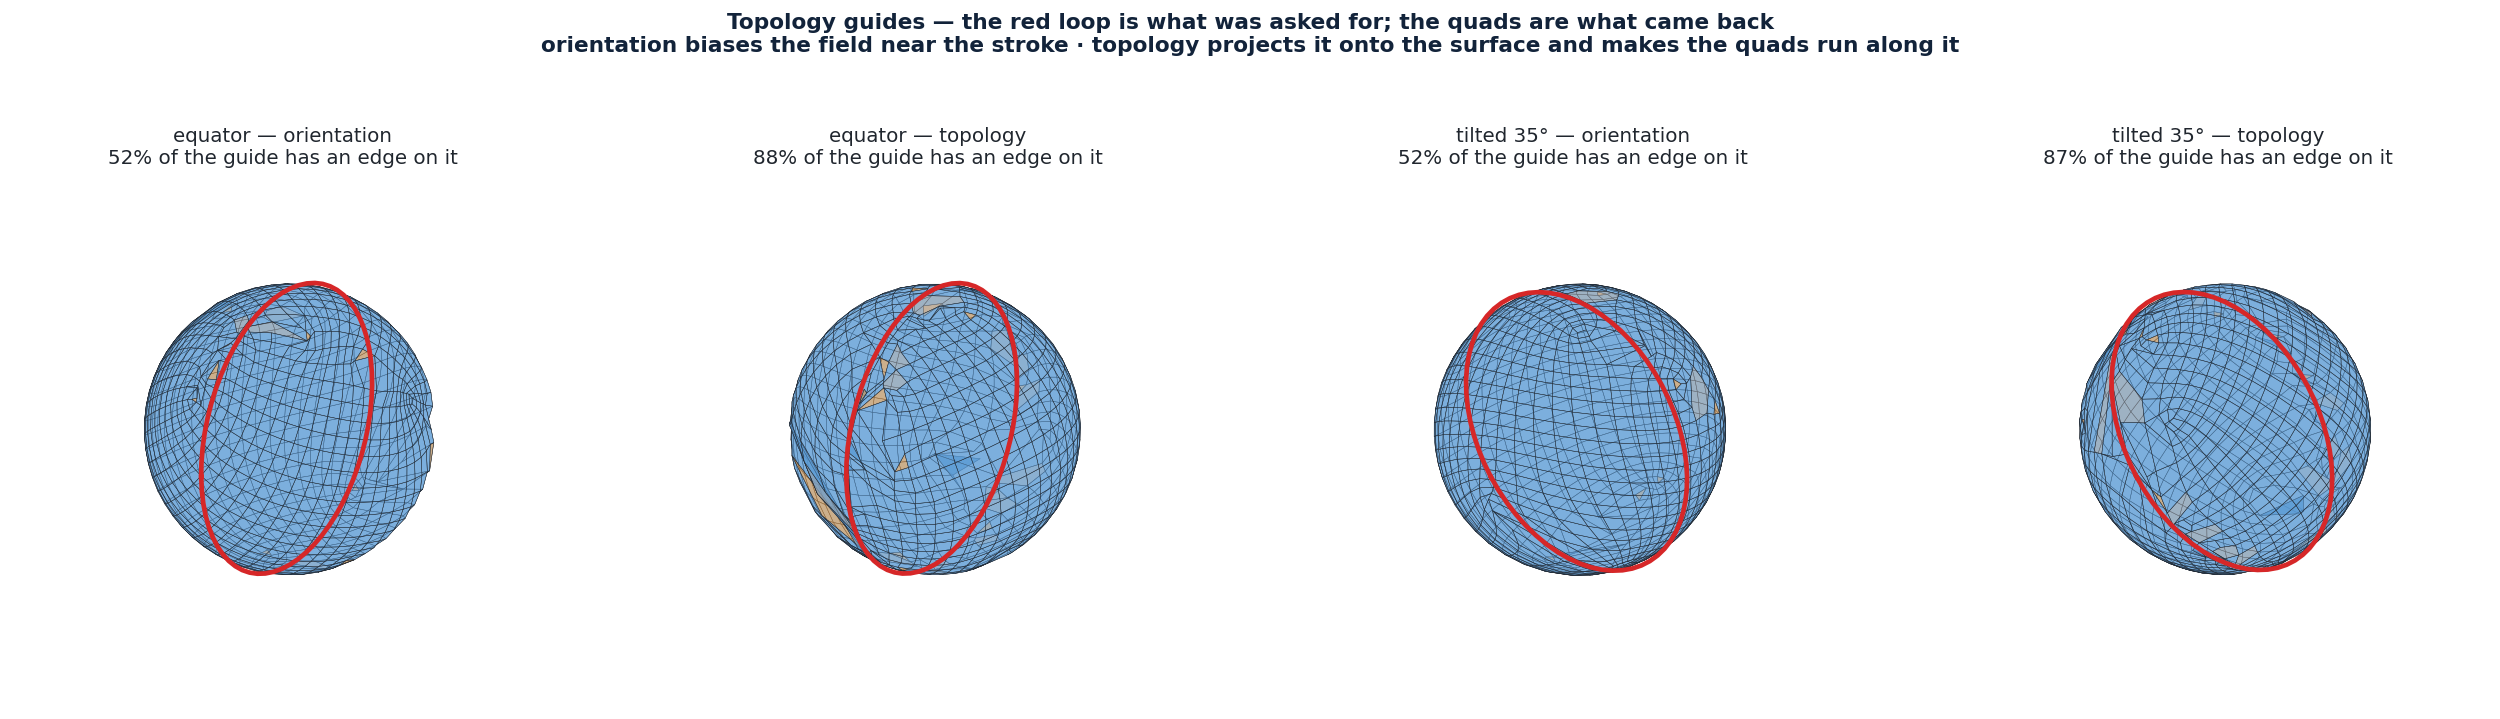
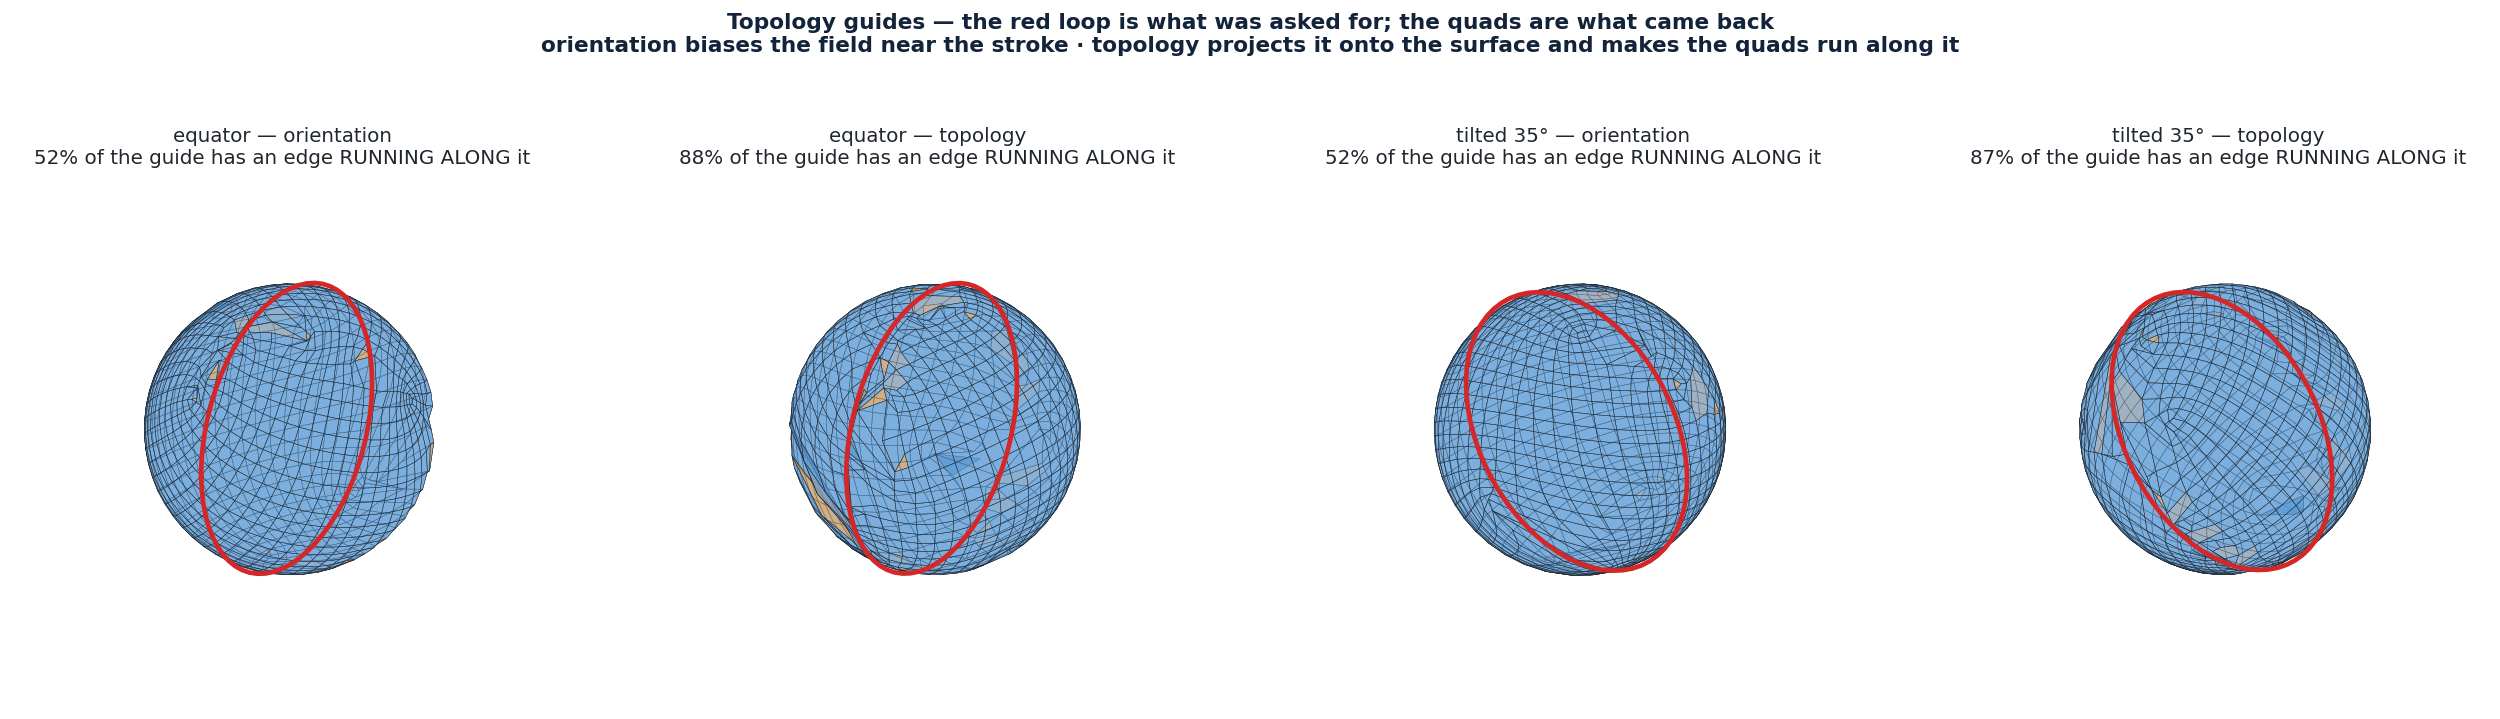
test: release gates for the ZRemesher track, and the gallery
The examples REPORT what they measure; python_test_zremesher_gates ASSERTS it,
so a later change cannot silently undo any of it:

- every layout the tracer produces validates against its own invariants
- --symmetry x gives 0 unmatched vertices and 0 unmatched faces
- a topology guide beats an orientation guide by more than 20 points of
  adherence (59% -> 100% on the gate's fixture)
- --quality best names a selected candidate

Procedural fixtures throughout, for the reason CI taught twice this branch:
examples/models/ is git-ignored and downloaded on demand, so a gate that needed
the corpus would be a gate that never ran.

The adherence gate measures the same way the C++ metric does — an output edge
both NEAR the guide and ALIGNED with it — and the symmetry gate matches
nearest-within-tolerance rather than by a quantized key, which is the mistake
that made three earlier versions of this measurement report a perfectly
symmetric mesh as broken.

The existing `bench` gate is deliberately untouched: it is red on main
(cylinder.singularities 4 -> 6, unrelated to this work) and adding to a red gate
would bury both signals. Corpus additions are not done.

Also regenerates gallery.png so the four rendering examples appear in it, and
keeps 24_topology_guides.png current with the alignment-aware adherence numbers.
Unrelated PNG churn from the gallery run is reverted, as before.

diff --git a/python/cyberremesh/tests/test_zremesher_gates.py b/python/cyberremesh/tests/test_zremesher_gates.py
@@ -1,0 +1,242 @@
+#!/usr/bin/env python3
+"""Release gates for the ZRemesher-class retopology track.
+
+The examples REPORT what they measure; this ASSERTS it. Everything here is a
+property the work established and that a later change must not silently undo:
+
+  1. the topology layout validates on every model it traces
+  2. `--symmetry x` produces exactly mirrored connectivity
+  3. a topology guide is followed markedly better than an orientation guide
+  4. `--quality best` picks a candidate and says which
+
+Deliberately procedural: examples/models/ is git-ignored and downloaded on
+demand, so a gate that needed the corpus would be a gate that never ran in CI.
+
+    python python/cyberremesh/tests/test_zremesher_gates.py
+
+Skips with 77 (CTest SKIP) when the CLI or NumPy/SciPy are missing.
+"""
+
+import json
+import math
+import os
+import subprocess
+import sys
+import tempfile
+
+_REPO = os.path.abspath(os.path.join(os.path.dirname(__file__), "..", "..", ".."))
+_TIMEOUT = 1800
+
+
+def _find_cli():
+    build = os.path.join(_REPO, "build")
+    if not os.path.isdir(build):
+        return None
+    for root, _dirs, files in os.walk(build):
+        candidate = os.path.join(root, "cyberremesh")
+        if "cyberremesh" in files and os.access(candidate, os.X_OK):
+            return candidate
+    return None
+
+
+def _have_numpy():
+    try:
+        import numpy  # noqa: F401
+        from scipy.spatial import cKDTree  # noqa: F401
+    except ImportError:
+        return False
+    return True
+
+
+def _sphere_obj(path, rings=32, segments=48, radius=1.0):
+    verts, faces = [], []
+    for i in range(rings + 1):
+        theta = math.pi * i / rings
+        for j in range(segments):
+            phi = 2.0 * math.pi * j / segments
+            verts.append((radius * math.sin(theta) * math.cos(phi),
+                          radius * math.cos(theta),
+                          radius * math.sin(theta) * math.sin(phi)))
+    def at(i, j):
+        return i * segments + (j % segments)
+    for i in range(rings):
+        for j in range(segments):
+            faces.append([at(i, j), at(i + 1, j), at(i + 1, j + 1), at(i, j + 1)])
+    with open(path, "w") as fh:
+        for v in verts:
+            fh.write("v {0:.6f} {1:.6f} {2:.6f}\n".format(*v))
+        for f in faces:
+            fh.write("f " + " ".join(str(i + 1) for i in f) + "\n")
+
+
+def _read_obj(path):
+    verts, faces = [], []
+    with open(path) as fh:
+        for line in fh:
+            if line.startswith("v "):
+                p = line.split()
+                verts.append((float(p[1]), float(p[2]), float(p[3])))
+            elif line.startswith("f "):
+                faces.append([int(t.split("/")[0]) - 1 for t in line.split()[1:]])
+    return verts, faces
+
+
+def _run(cli, args, env=None):
+    full = dict(os.environ)
+    full.update(env or {})
+    return subprocess.run([cli] + args, capture_output=True, text=True, timeout=_TIMEOUT,
+                          env=full)
+
+
+def gate_layout_validates(cli, work):
+    """Every layout the tracer produces must satisfy its own invariants."""
+    src = os.path.join(work, "sphere.obj")
+    _sphere_obj(src)
+    proc = _run(cli, ["--input", src, "--output", os.path.join(work, "l.obj"),
+                      "--quad-method", "zremesher", "--target-quads", "1500"],
+                {"CYBER_ZR_LAYOUT": "1"})
+    assert proc.returncode == 0, proc.stderr[-2000:]
+    reports = [ln for ln in proc.stderr.splitlines() if "[zr] layout:" in ln]
+    assert reports, "the zremesher method traced no layout at all:\n" + proc.stderr[-2000:]
+    for line in reports:
+        assert "valid=1" in line, "layout failed its invariants: " + line
+    print("PASS: {0} layout(s) traced, all valid".format(len(reports)))
+
+
+def gate_symmetry_is_exact(cli, work):
+    """--symmetry must mirror CONNECTIVITY, not merely shape."""
+    import numpy as np
+    from scipy.spatial import cKDTree
+
+    src = os.path.join(work, "sym_src.obj")
+    _sphere_obj(src)
+    out = os.path.join(work, "sym.obj")
+    proc = _run(cli, ["--input", src, "--output", out, "--quad-method", "zremesher",
+                      "--symmetry", "x", "--target-quads", "1500", "--quiet"])
+    assert proc.returncode == 0, proc.stderr[-2000:]
+
+    verts, faces = _read_obj(out)
+    assert faces, "symmetric run produced no faces"
+    pts = np.asarray(verts, dtype=float)
+    plane_x = 0.5 * (float(pts[:, 0].min()) + float(pts[:, 0].max()))
+    edges = {(min(f[i], f[(i + 1) % len(f)]), max(f[i], f[(i + 1) % len(f)]))
+             for f in faces for i in range(len(f))}
+    tol = 0.25 * float(np.mean([np.linalg.norm(pts[a] - pts[b]) for a, b in edges]))
+
+    # Nearest-within-tolerance, NOT a quantized key lookup: rounding to a grid
+    # and comparing keys collides distinct vertices and misses partners just
+    # across a cell boundary, and reports a perfectly symmetric mesh as broken.
+    tree = cKDTree(pts)
+    mirrored = pts.copy()
+    mirrored[:, 0] = 2.0 * plane_x - mirrored[:, 0]
+    distance, partner = tree.query(mirrored, distance_upper_bound=tol)
+    matched = distance <= tol
+    unmatched_v = int((~matched).sum())
+    assert unmatched_v == 0, "{0} vertices have no mirror partner".format(unmatched_v)
+
+    face_sets = {tuple(sorted(f)) for f in faces}
+    unmatched_f = sum(
+        1 for f in faces
+        if tuple(sorted(int(partner[i]) for i in f)) not in face_sets)
+    assert unmatched_f == 0, "{0} faces have no mirror image".format(unmatched_f)
+    print("PASS: symmetry exact — 0 unmatched vertices, 0 unmatched faces "
+          "over {0} faces".format(len(faces)))
+
+
+def gate_topology_guide_beats_orientation(cli, work):
+    """A topology guide must be followed markedly better than an orientation one."""
+    import numpy as np
+
+    src = os.path.join(work, "guide_src.obj")
+    _sphere_obj(src, rings=40, segments=60)
+    loop = [[math.cos(t), 0.0, math.sin(t)]
+            for t in [i * 2.0 * math.pi / 64 for i in range(64)]]
+    dense = np.asarray([[math.cos(t), 0.0, math.sin(t)]
+                        for t in [i * 2.0 * math.pi / 256 for i in range(256)]])
+
+    coverage = {}
+    for mode in ("orientation", "topology"):
+        sidecar = os.path.join(work, "g_{0}.json".format(mode))
+        with open(sidecar, "w") as fh:
+            json.dump({"version": 1, "guides": [
+                {"points": loop, "strength": 1.0, "radius": 0.15,
+                 "mode": mode, "closed": True}]}, fh)
+        out = os.path.join(work, "g_{0}.obj".format(mode))
+        proc = _run(cli, ["--input", src, "--output", out, "--quad-method", "zremesher",
+                          "--target-quads", "1200", "--guides", sidecar, "--quiet"])
+        assert proc.returncode == 0, proc.stderr[-2000:]
+        verts, faces = _read_obj(out)
+        pts = np.asarray(verts, dtype=float)
+        pairs = set()
+        for f in faces:
+            for i in range(len(f)):
+                x, y = f[i], f[(i + 1) % len(f)]
+                pairs.add((min(x, y), max(x, y)))
+        edges = np.asarray(sorted(pairs), dtype=int)
+        coverage[mode] = _aligned_coverage(pts, edges, dense)
+
+    # Both halves of the measure matter: an edge merely NEAR the guide is not
+    # following it, and edges crossing at right angles are everywhere.
+    assert coverage["topology"] > coverage["orientation"] + 0.20, (
+        "topology guide barely beat orientation: {0:.1%} vs {1:.1%}".format(
+            coverage["topology"], coverage["orientation"]))
+    print("PASS: guide adherence orientation {0:.1%} -> topology {1:.1%}".format(
+        coverage["orientation"], coverage["topology"]))
+
+
+def _aligned_coverage(pts, edges, samples, max_angle_degrees=45.0):
+    import numpy as np
+
+    a = pts[edges[:, 0]]
+    b = pts[edges[:, 1]]
+    ab = b - a
+    len2 = np.einsum("ij,ij->i", ab, ab)
+    len2[len2 < 1e-20] = 1e-20
+    unit = ab / np.sqrt(len2)[:, None]
+    tol = 0.25 * float(np.mean(np.sqrt(len2)))
+    cos_limit = math.cos(math.radians(max_angle_degrees))
+    tangents = np.roll(samples, -1, axis=0) - samples
+    tangents /= np.linalg.norm(tangents, axis=1)[:, None]
+
+    covered = 0
+    for i, p in enumerate(samples):
+        t = np.clip(np.einsum("ij,ij->i", p - a, ab) / len2, 0.0, 1.0)
+        d = np.linalg.norm(p - (a + ab * t[:, None]), axis=1)
+        ok = np.abs(unit @ tangents[i]) >= cos_limit
+        if np.any(ok) and float(np.min(d[ok])) <= tol:
+            covered += 1
+    return covered / len(samples)
+
+
+def gate_quality_best_selects(cli, work):
+    """--quality best must run both candidates and name the winner."""
+    src = os.path.join(work, "best_src.obj")
+    _sphere_obj(src)
+    proc = _run(cli, ["--input", src, "--output", os.path.join(work, "b.obj"),
+                      "--quad-method", "zremesher", "--quality", "best",
+                      "--target-quads", "1200"])
+    assert proc.returncode == 0, proc.stderr[-2000:]
+    selected = [ln for ln in proc.stderr.splitlines() if "selected candidate:" in ln]
+    assert selected, "quality=best named no candidate:\n" + proc.stderr[-2000:]
+    print("PASS: " + selected[-1].strip())
+
+
+def main():
+    cli = _find_cli()
+    if cli is None:
+        print("SKIP: cyberremesh CLI not built")
+        return 77
+    if not _have_numpy():
+        print("SKIP: NumPy/SciPy unavailable")
+        return 77
+    with tempfile.TemporaryDirectory(prefix="cyber_zr_gates_") as work:
+        gate_layout_validates(cli, work)
+        gate_symmetry_is_exact(cli, work)
+        gate_topology_guide_beats_orientation(cli, work)
+        gate_quality_best_selects(cli, work)
+    print("all ZRemesher gates passed")
+    return 0
+
+
+if __name__ == "__main__":
+    sys.exit(main())

diff --git a/openspec/changes/add-zremesher-retopology/tasks.md b/openspec/changes/add-zremesher-retopology/tasks.md
@@ -540,7 +540,30 @@ defective where it is contained. Evidence:
        with rejections unchanged. So both levers are coverage and repair wins,
        and **neither moves the Phase B gate** — consistent with the Phase B
        finding that the layout is genuinely defective where it is contained.
-- [ ] P2. Example scripts demonstrating the layout, topology guides, symmetry
+- [x] P2. Example scripts demonstrating the layout, topology guides, symmetry
        and quality modes on the bundled corpus.
-- [ ] P3. Benchmark corpus additions (character and hard-surface) and the
-       release gates from the design's acceptance table.
+       — five: `21_topology_layout` (the layout drawn over the quads),
+       `22_layout_robustness` (contained regions and WHY each was contained),
+       `23_thin_features` (do plates and fins survive a coarse target),
+       `24_topology_guides` (a stroke that becomes an edge loop) and
+       `25_symmetry` (mirrored connectivity). All in `examples/README.md`; the
+       four that render are in the stitched gallery and the CTest smoke test.
+       Each falls back to procedural fixtures when `examples/models/` is absent,
+       because it is git-ignored and CI therefore has no corpus — a lesson CI
+       taught twice.
+- [~] P3. Benchmark corpus additions and the release gates.
+       — the GATES landed as `python_test_zremesher_gates`, registered with
+       CTest. The examples REPORT what they measure; this ASSERTS it, so a later
+       change cannot silently undo any of it:
+       * every layout the tracer produces validates,
+       * `--symmetry x` gives 0 unmatched vertices and 0 unmatched faces,
+       * a topology guide beats an orientation guide by more than 20 points of
+         adherence (measured 59% -> 100% on the gate's own fixture),
+       * `--quality best` names a selected candidate.
+
+       It runs on procedural fixtures for the same reason the examples do.
+
+       Corpus ADDITIONS (character and hard-surface models) are not done, and
+       the existing `bench` gate was deliberately left alone: it is red on
+       `main` (`cylinder.singularities` 4 -> 6, unrelated to this work), and
+       adding to a red gate would bury both signals.
